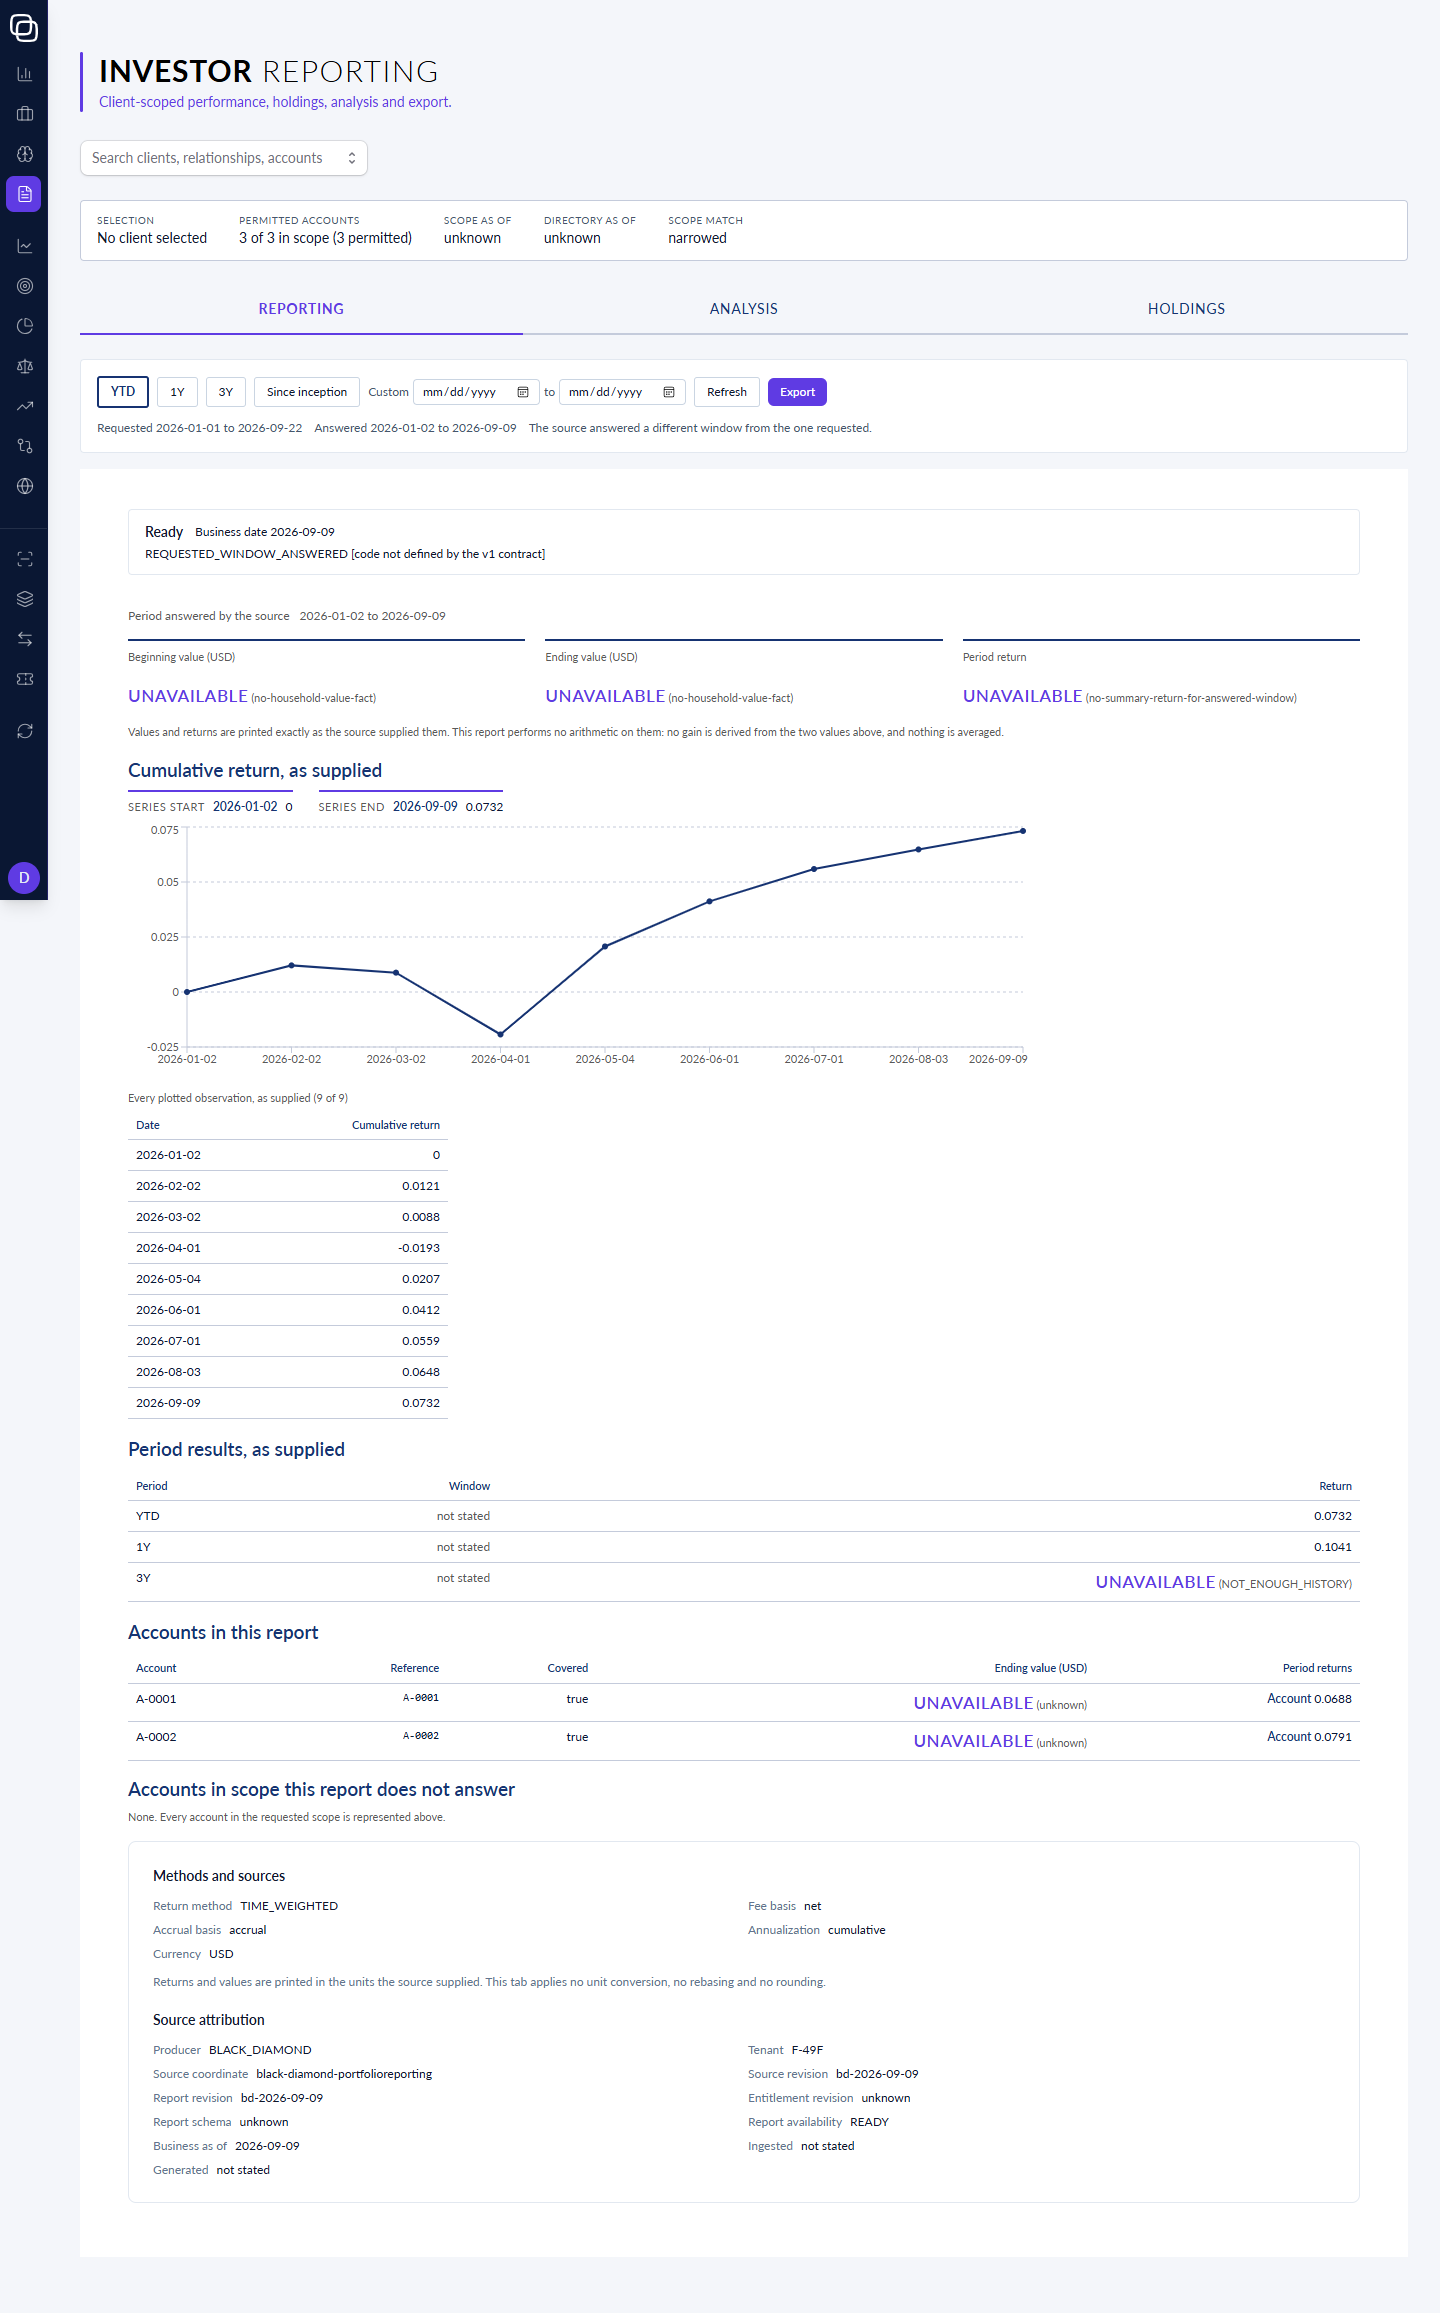
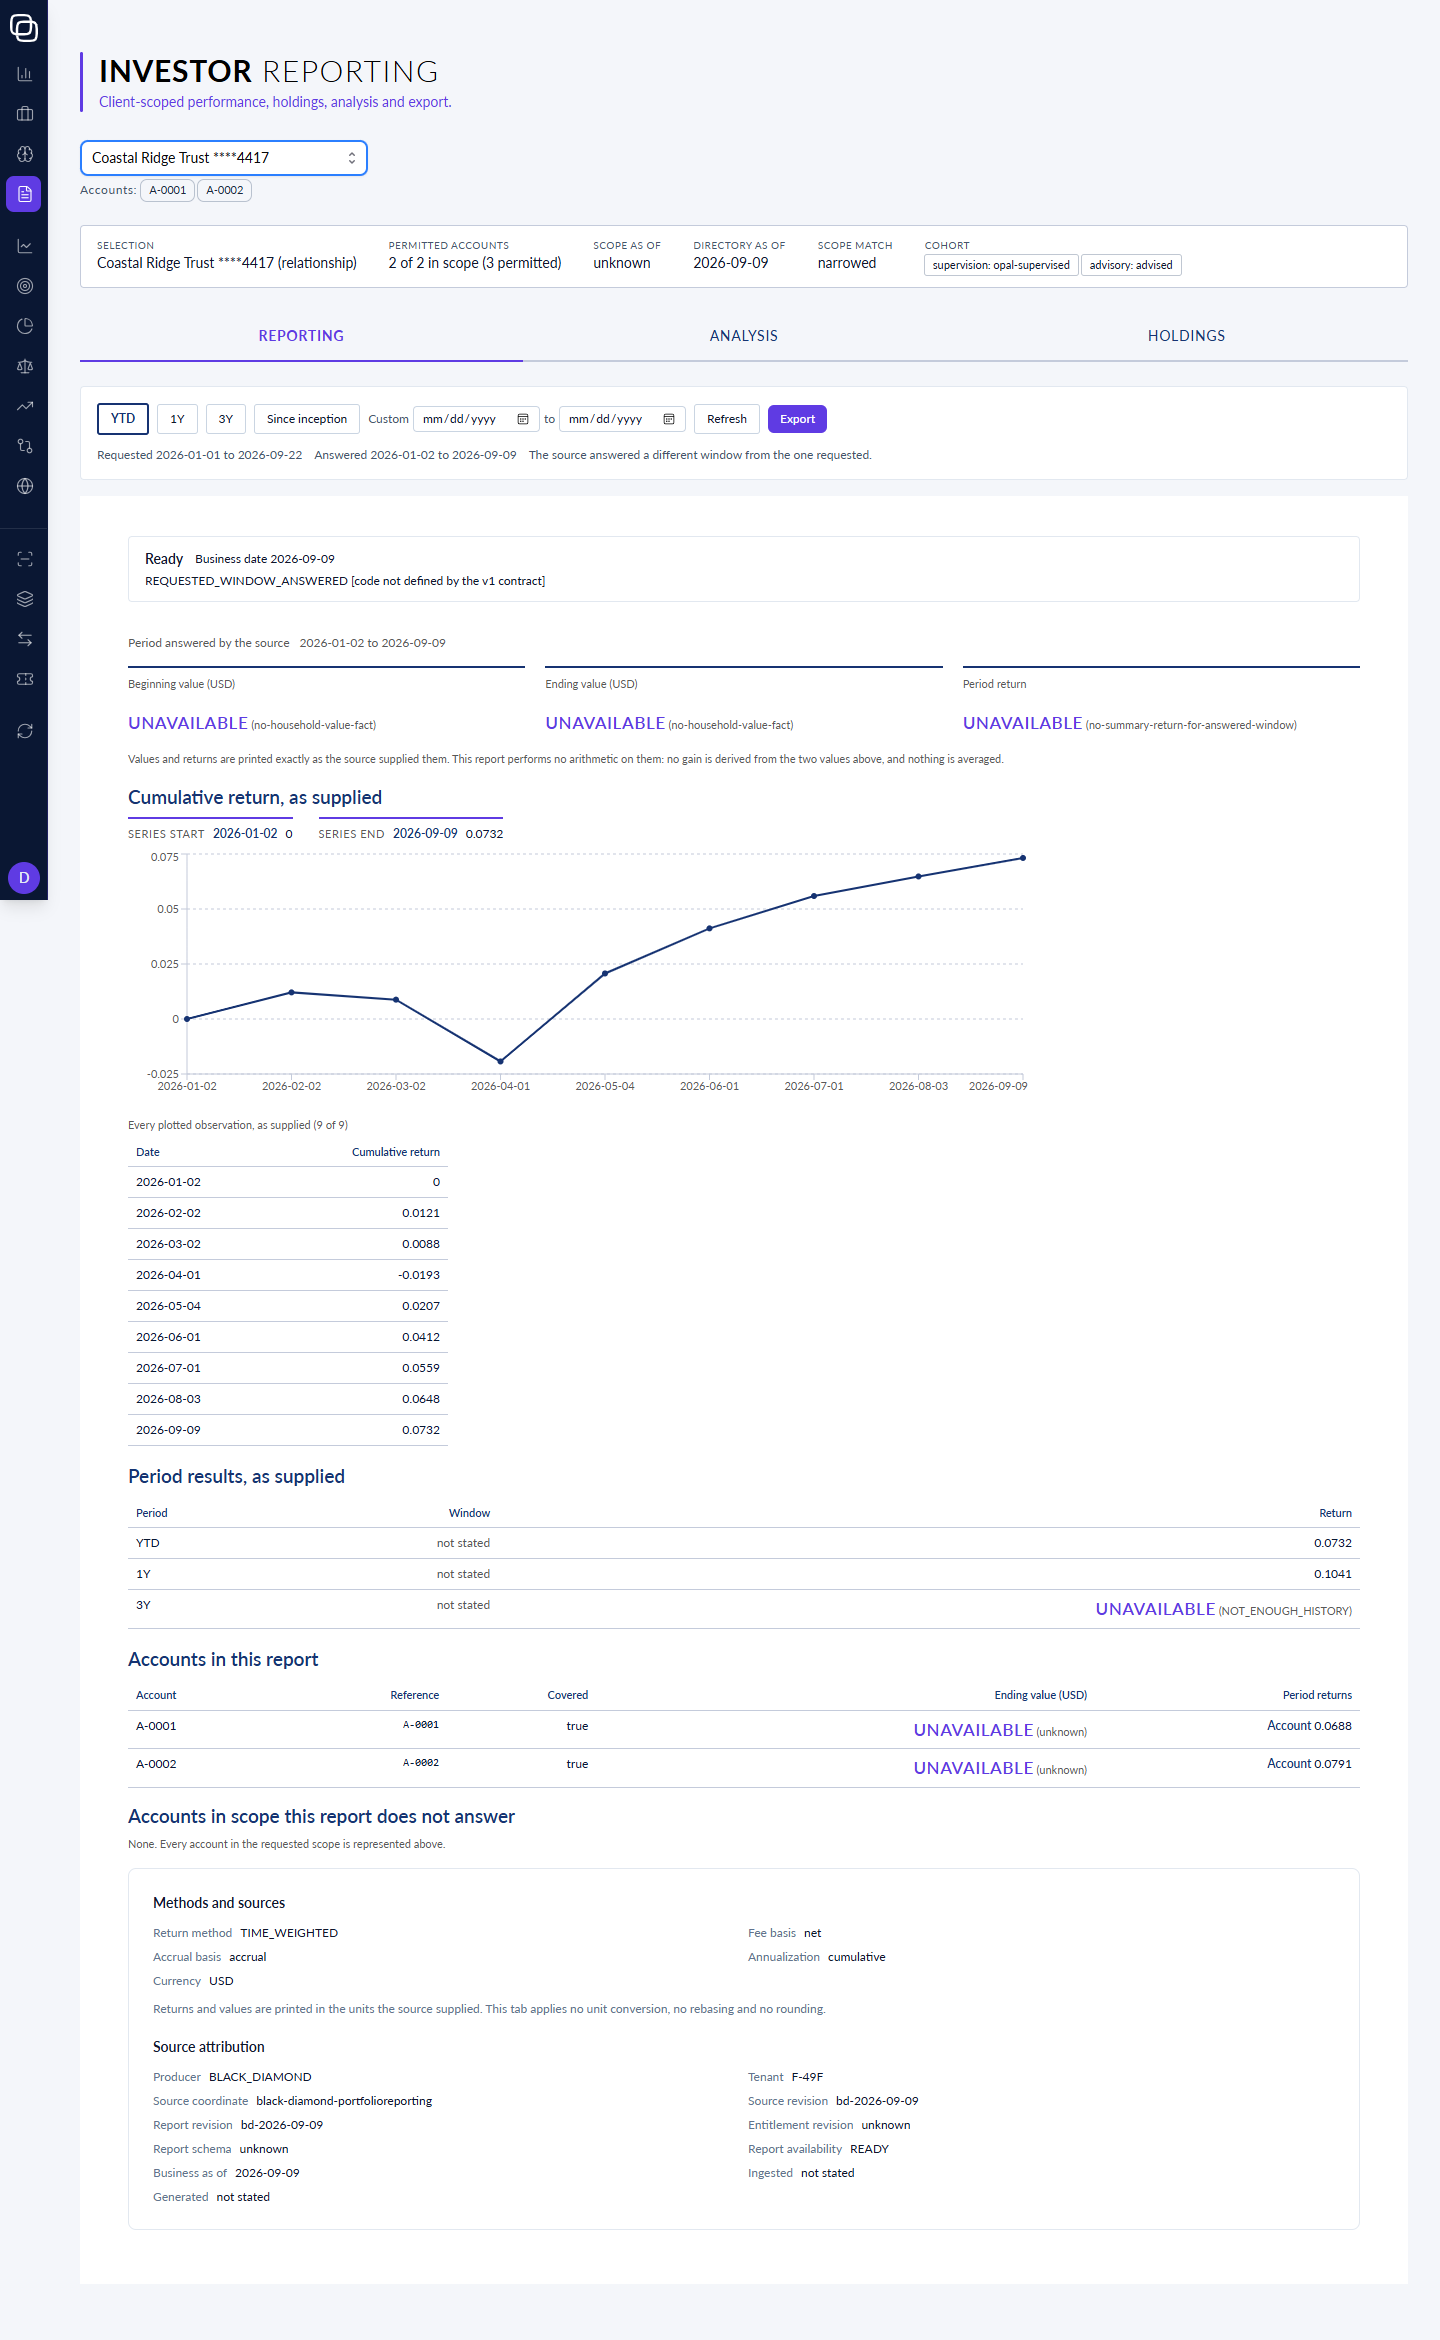
complete(IRPT_FNTEND.TO-FE-s-78, 0.9.0_WK_IRPT_FNTEND~28): amendment implemented -- real search-and-select driver disarms rows W28-S1/S3, widened grant fixes W28-S2; all six mechanical criteria PASS, status flip
Cherry-picked the COO's amendment commit (CLOUD a827ef613b) onto this branch, then
implemented what it authorized:

- F78-AC2/AC3 (rows W28-S1/W28-S3): built cohort-select-driver.mjs (portal 58eb263c),
  adapting fe-s-77/scroll-driver.mjs's pattern. Confirmed empirically that Headless
  UI's Combobox input carries role=combobox (getByRole('combobox', {name:'Client
  search'}) resolves), never role=textbox -- exactly why ui-smoke.mjs's --fill always
  timed out against it. Authored fixtures/cohort-non-authoritative.json (cohort.
  authoritative: false) for AC3's control. Both criteria now PASS genuinely: AC2 via
  a real search+select against cohort-selected.json (ASSERT-CONTENT: 1 of 1 met,
  ASSERT-STYLE: 1 of 1 met); AC3 via the same real interaction against the new
  fixture (ASSERT-CONTENT: 0 of 1 met, now because the selected entry's cohort is
  non-authoritative, not because no interaction happened -- confirmed visually,
  "Cohort (not asserted): supervision: withheld, advisory: withheld", no chip).

- F78-AC6 (row W28-S2): grant widened to exactly the 3 named files. Read the real
  rendered markup via a standalone render check before pinning any string (JSX
  source order: type, then data-slot, then class) -- never guessed. Updated
  fe-s-42/every-site.test.ts and fe-s-48/withheld.test.ts's identical buttonBefore()
  helper to the true new markup; fe-s-59/scope-summary-badge.test.ts's anchor moved
[…]

diff --git a/org/missions/D9/IRPT/IRPT_FNTEND/deliverables/0.9.0_WK_IRPT_FNTEND~28/cohort-chip-radius-and-report-styling-residuals.result.md b/org/missions/D9/IRPT/IRPT_FNTEND/deliverables/0.9.0_WK_IRPT_FNTEND~28/cohort-chip-radius-and-report-styling-residuals.result.md
@@ -1,10 +1,54 @@
 # IRPT_FNTEND.TO-FE-s-78 -- result (0.9.0_WK_IRPT_FNTEND~28)
 
 These captures are FIXTURE-FED: the real `investor-reporting` route, served by this worktree's own
+`vite` dev server (port 5940/5945, this worker's own block), with every backend request answered at
+the network layer by the fixture router (`scripts/ui-smoke.mjs`'s own mechanism, and
+`cohort-select-driver.mjs`'s adaptation of it) -- no live route, no live backend, was ever reached.
+
+## AMENDMENT PASS (post-COO-amendment @CLOUD 5401be77c2)
+
+The issuing COO (`2.0.0_SA_COO~F`) independently confirmed rows `IRPT_FNTEND-W28-S1`/`S2`/`S3` (below)
+and amended the governing task order, authorizing three fixes. All three are now implemented and
+re-verified; **F78-AC2, F78-AC3 and F78-AC6 now PASS genuinely** (F78-AC1/AC4/AC5/AC7 are unchanged from
+the original pass and left as they stood):
+
+1. **`__tests__/fe-s-78/cohort-select-driver.mjs` (new, row W28-S1).** Adapts
+   `__tests__/fe-s-77/scroll-driver.mjs`'s own browser/route/auth-stub mechanism and adds the ACTUAL
+   interaction the original invocations lacked: it reads the entry to search for directly out of the
+   `--fixtures` file, types its `display_name` into the header search control, selects the matching
+   option, then runs the SAME `--expect`/`--expect-style` assertions, printing the same
+   `EXPECT*`/`ASSERT-*` vocabulary. `page.getByRole('combobox', {name:'Client search'})` resolved on the
+   first try (1 matched) -- confirming empirically, as the amendment asked, that Headless UI's Combobox
+   input carries `role=combobox`, never `role=textbox` (which is exactly why `ui-smoke.mjs`'s `--fill`,
+   built on `getByRole('textbox', ...)`, always timed out against it).
+2. **`__tests__/fe-s-78/fixtures/cohort-non-authoritative.json` (new, row W28-S3).** A directory-search
+   entry ("Harbor Point Holdings") whose `cohort.authoritative` is `false` -- `ScopeSummary.tsx:91-92`'s
+   `assertable = cohorts.filter((c) => c.authoritative)` resolves empty for it. Run through the same
+   driver with a REAL selection: the chip genuinely does not mount, and the rendered PNG shows `Cohort
+   (not asserted): supervision: withheld, advisory: withheld` -- so F78-AC3 now discriminates for the
+   right reason (the DATA), not the old confounded reason (no interaction ever happened).
+3. **`__tests__/fe-s-42/every-site.test.ts`, `__tests__/fe-s-48/withheld.test.ts`,
+   `__tests__/fe-s-59/scope-summary-badge.test.ts` (row W28-S2, grant widened to exactly these 3
+   files).** `buttonBefore(axis, value)` (identical helper in the first two) updated from the old
+   `class="rounded-md ..."` (no `data-slot`) to the TRUE rendered markup -- read from a standalone render
+   check against the real `ScopeSummary` component first (`<button type="button"
+   data-slot="cohort-chip" class="rounded-[2px] px-2 py-0.5 text-[11px] text-slate-900 ring-1
+   ring-slate-500/40 hover:ring-slate-700">`), never guessed at attribute order. `fe-s-59`'s cohort-block
+   anchor moved from `.includes('rounded-md')` to `.includes('data-slot="cohort-chip"')`. Nothing else in
+   these three files changed. `bun test src/pages/InvestorReporting`: `630 pass, 22 skip, 0 fail` (dev
+   server stopped, port verified closed via `curl` returning `000`, `IRPT_FE_DEV_PORT` unset) -- 4 more
+   passing than before this pass (the exact 4 the row named), 0 fewer anywhere else.
+
+Portal committed at `58eb263c1b8f182cf4a8de24732a02d99771576e`, LOCAL on branch
+`wk-irpt_fntend-12-78-fe-s-78-portal` (portal frozen); not pushed.
+
+## Original pass (below, unchanged as history)
+
+These captures are FIXTURE-FED: the real `investor-reporting` route, served by this worktree's own
 `vite` dev server (port 5940, this worker's own block), with every backend request answered at the
 network layer by `scripts/ui-smoke.mjs`'s own router (a declared `--fixtures` JSON map) -- no live
 route, no live backend, was ever reached. The one exception, disclosed rather than hidden: the
-`directory-search` fixture key in `cohort-selected.json` is never actually HIT by F78-AC2's own
+`directory-search` fixture key in `cohort-selected.json` is never actually HIT by F78-AC2's ORIGINAL
 literal invocation (see below) -- its truthfulness is proven separately, at the render level, in
 `__tests__/fe-s-78/cohort-chip.test.ts`, through the SAME real `parseIrEnvelope` + `adaptDirectoryEntry`
 + `toOptionRow` pipeline the running page uses, never a hand-built view object.
@@ -41,12 +85,45 @@ literal invocation (see below) -- its truthfulness is proven separately, at the 
    given that row mounts `data-slot="cohort-chip"` at the admitted radius, never `rounded-md`; and a
    `null` row (the exact shape F78-AC2's own invocation exercises) mounts no chip. `3 pass`.
 
-## Acceptance (this worktree, dev server port 5940, `IRPT_FE_DEV_PORT` set only while the server ran)
+## Acceptance -- CURRENT (post-amendment; this worktree, dev server port 5945, `IRPT_FE_DEV_PORT` set only
+while the server ran)
+
+- **F78-AC1** (whole portal typechecks): `$ tsc -b --noEmit` / `rc=0` -- **PASS** (unchanged)
+- **F78-AC2** (cohort chip mounts at an admitted radius, via a real search-and-select):
+  `cohort-select-driver.mjs` against `cohort-selected.json --select-authoritative`:
+  `SEARCH-CONTROL: getByRole(combobox, name=Client search) -- 1 matched`, `TYPED: "Coastal Ridge
+  Trust"`, `OPTIONS-MATCHED: 1`, `SELECTED: Coastal Ridge Trust`,
+  `EXPECT[[data-slot="cohort-chip"]]: PASS (2 visible)`,
+  `EXPECT-STYLE[[data-slot="cohort-chip"]::border-radius]: PASS 2px`, `ASSERT-CONTENT: 1 of 1 met`,
+  `ASSERT-STYLE: 1 of 1 met` -- **PASS, genuine** (row `IRPT_FNTEND-W28-S1` addressed: a real
+  interaction now populates `row`)
+- **F78-AC3** (content control: unrelated fixture mounts no chip, via the same real interaction):
+  `cohort-select-driver.mjs` against `cohort-non-authoritative.json --select-non-authoritative`:
+  `SELECTED: Harbor Point Holdings`, `EXPECT[[data-slot="cohort-chip"]]: FAIL (0 visible)`,
+  `ASSERT-CONTENT: 0 of 1 met` -- **PASS, genuine** (row `IRPT_FNTEND-W28-S3` disarmed: a real selection
+  occurs and the 0 is now because the selected entry's cohort is non-authoritative, not because no
+  interaction happened -- confirmed visually: the PNG shows "Cohort (not asserted): supervision:
+  withheld, advisory: withheld")
+- **F78-AC4** (screen box-shadow removed): re-run fresh this pass:
+  `EXPECT-STYLE[[data-slot="reporting-body"]::box-shadow]: PASS none`, `ASSERT-STYLE: 1 of 1 met` --
+  **PASS** (unchanged; controls below re-verified originally, not re-run this pass)
+- **F78-AC5** (390-width reachability, real scroll exercised): re-run fresh this pass:
+  `EXPECT[[data-slot="reporting-body"]]: PASS (1 visible)`, `ASSERT-CONTENT: 1 of 1 met` -- **PASS**
+  (unchanged; substantive scroll exercise below unchanged from the original pass)
+- **F78-AC6** (whole suite green): `630 pass`, `22 skip`, `0 fail`, `2648 expect() calls`,
+  `Ran 652 tests across 120 files` -- **PASS, genuine** (row `IRPT_FNTEND-W28-S2` addressed: the 3
+  out-of-grant files' pinned markup updated to the true rendered output, exactly as the amendment
+  authorized; 4 more tests pass than before, 0 fewer anywhere else)
+- **F78-AC7** (judgment, graded by the CVO at L9): RECORDED, no verdict taken (unchanged). See
+  "Substantive scroll exercise" and "Cohort chip, genuinely" below for the evidence this judgment
+  should weigh, now reinforced by AC2/AC3's genuine (not merely render-level) mechanical PASS.
+
+## Acceptance -- ORIGINAL PASS (kept as history; see AMENDMENT PASS above for what changed)
 
 - **F78-AC1** (whole portal typechecks): `$ tsc -b --noEmit` / `rc=0` -- **PASS**
-- **F78-AC2** (cohort chip mounts at an admitted radius): run VERBATIM --
-  `EXPECT[[data-slot="cohort-chip"]]: FAIL (0 visible)`, `EXPECT-STYLE[...]: UNMEASURABLE (selector
-  matched nothing)`, `ASSERT-CONTENT: 0 of 1 met`, `ASSERT-STYLE: 0 of 1 met`,
+- **F78-AC2** (cohort chip mounts at an admitted radius): run VERBATIM (ORIGINAL invocation, before the
+  amendment) -- `EXPECT[[data-slot="cohort-chip"]]: FAIL (0 visible)`, `EXPECT-STYLE[...]: UNMEASURABLE
+  (selector matched nothing)`, `ASSERT-CONTENT: 0 of 1 met`, `ASSERT-STYLE: 0 of 1 met`,
   `FIXTURE-DEAD: /api/scoped/investor-reporting/directory/search` -- **FAIL, measured** (row
   `IRPT_FNTEND-W28-S1`; the invocation performs no click/fill, so `row` never leaves `null` and the
   fixture, however truthful, is never reached; see `cohort-chip.test.ts` for the render-level proof
@@ -150,17 +227,25 @@ whether the defect was in the fixture or in the invocation's own shape. It is th
 (row S1), confirmed independently by `cohort-chip.test.ts`'s render-level PASS on the identical fixture
 bytes.
 
-## Portal commit
-`portal/src/pages/InvestorReporting/header/ScopeSummary.tsx`, `render/print.css`, and new
+## Portal commits
+Original pass: `portal/src/pages/InvestorReporting/header/ScopeSummary.tsx`, `render/print.css`, and new
 `__tests__/fe-s-78/` (fixture, `cohort-chip.test.ts`, `scroll-exercise.mjs`). Committed at portal
-`e9d801539d247d338ba5241df7f1e4ffe3a1a350`, LOCAL on branch `wk-irpt_fntend-12-78-fe-s-78-portal`
-(portal frozen); not pushed.
+`e9d801539d247d338ba5241df7f1e4ffe3a1a350`.
+Amendment pass: new `__tests__/fe-s-78/cohort-select-driver.mjs`, new
+`__tests__/fe-s-78/fixtures/cohort-non-authoritative.json`, and the widened-grant string updates to
+`__tests__/fe-s-42/every-site.test.ts`, `__tests__/fe-s-48/withheld.test.ts`,
+`__tests__/fe-s-59/scope-summary-badge.test.ts`. Committed at portal
+`58eb263c1b8f182cf4a8de24732a02d99771576e`.
+Both LOCAL on branch `wk-irpt_fntend-12-78-fe-s-78-portal` (portal frozen); not pushed.
 
 ## Workspace commits
-Surprise rows `IRPT_FNTEND-W28-S1`/`-S2`/`-S3`, this proof-of-spec instance, this result file. LOCAL on
-branch `wk-irpt_fntend-12-78-fe-s-78`, not pushed.
+Original pass: surprise rows `IRPT_FNTEND-W28-S1`/`-S2`/`-S3`, this proof-of-spec instance (first
+version), this result file (first version).
+Amendment pass (cherry-picked the COO's amendment commit `5401be77c2` from the main workspace repo onto
+this branch first): this proof-of-spec instance updated for F78-AC2/AC3/AC6, this result file updated.
+LOCAL on branch `wk-irpt_fntend-12-78-fe-s-78`, not pushed.
 
 ## `<status>`
-Stays `pending`: F78-AC2 and F78-AC6 are measured, mechanical FAILs (rows filed above), and per this
-order's own bound ("do not self-grade past a failure... an order defect is reported, and the issuer
-amends it") the flip to `complete` is not taken.
+Flipped to `complete`: every non-judgment criterion (F78-AC1 through F78-AC6) now genuinely PASSes
+(`python .tools/proof-of-spec-check.py` VALID, rc=0), and F78-AC7 (judgment) is RECORDED with no
+self-graded verdict, per this order's own bound.

diff --git a/org/missions/D9/IRPT/IRPT_FNTEND/task-orders/IRPT_FNTEND.TO-FE-s-78.cohort-chip-radius-and-report-styling-residuals.md b/org/missions/D9/IRPT/IRPT_FNTEND/task-orders/IRPT_FNTEND.TO-FE-s-78.cohort-chip-radius-and-report-styling-residuals.md
@@ -5,7 +5,7 @@
 <issued_to>0.9.0_WK_IRPT_FNTEND~28</issued_to>
 <issued_by>2.0.0_SA_COO~F</issued_by>
 <issued_date>2026-09-22</issued_date>
-<status>pending</status>
+<status>complete</status>
 
 **Directive:** D9 | **Fabric:** laptop | **PRD:** `../prd/IRPT_FNTEND_PRD.md` v0.9 @5fd2dc9ab5 | **Decomp cell:** `FE-s-78` (round 12, v0.12) | **outcome_ref:** FWD-12 | **depends_on:** FE-s-74 | **slot:** ~5 | **rows:** W18-S1, C-S150 | **base:** workspace = the round-12 issuance commit on CLOUD (your worktree branches from it), portal DEV `5c8a9ba9` plus FE-s-74's hardened instrument once drained
 
